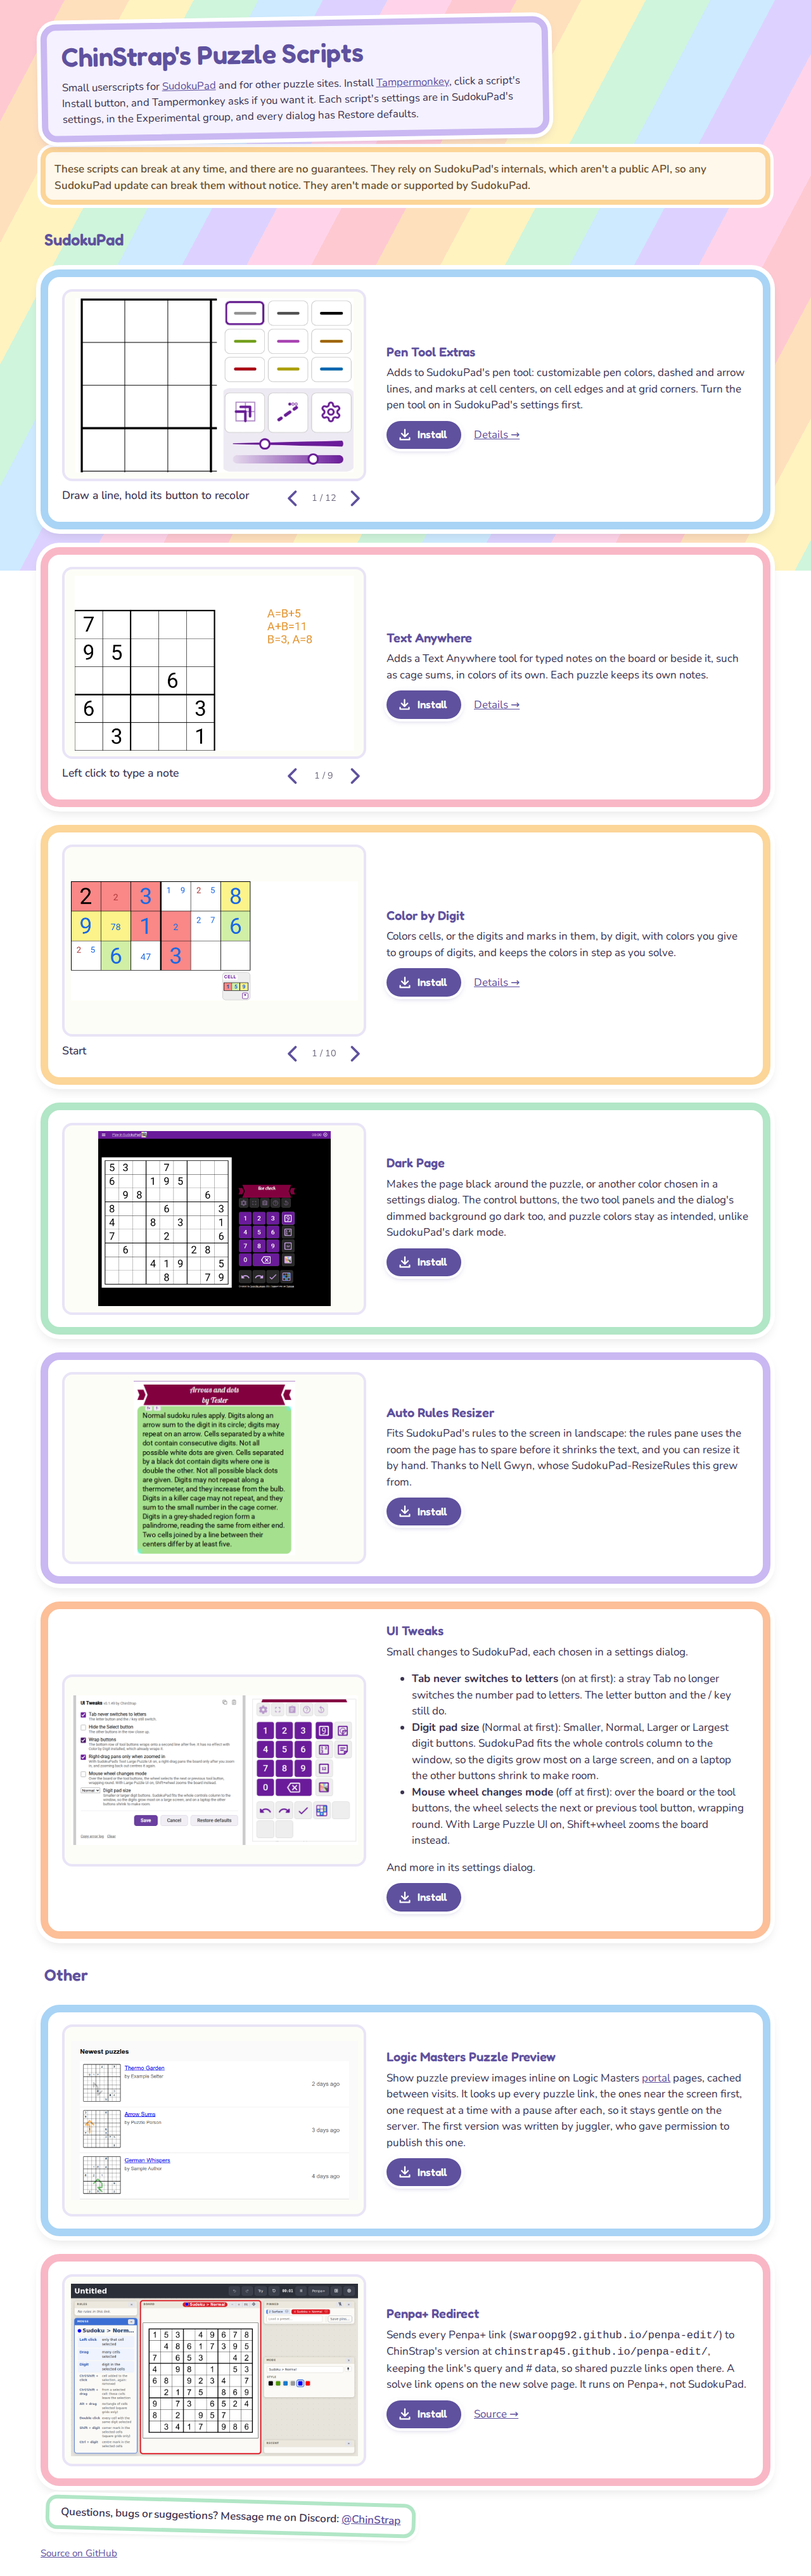
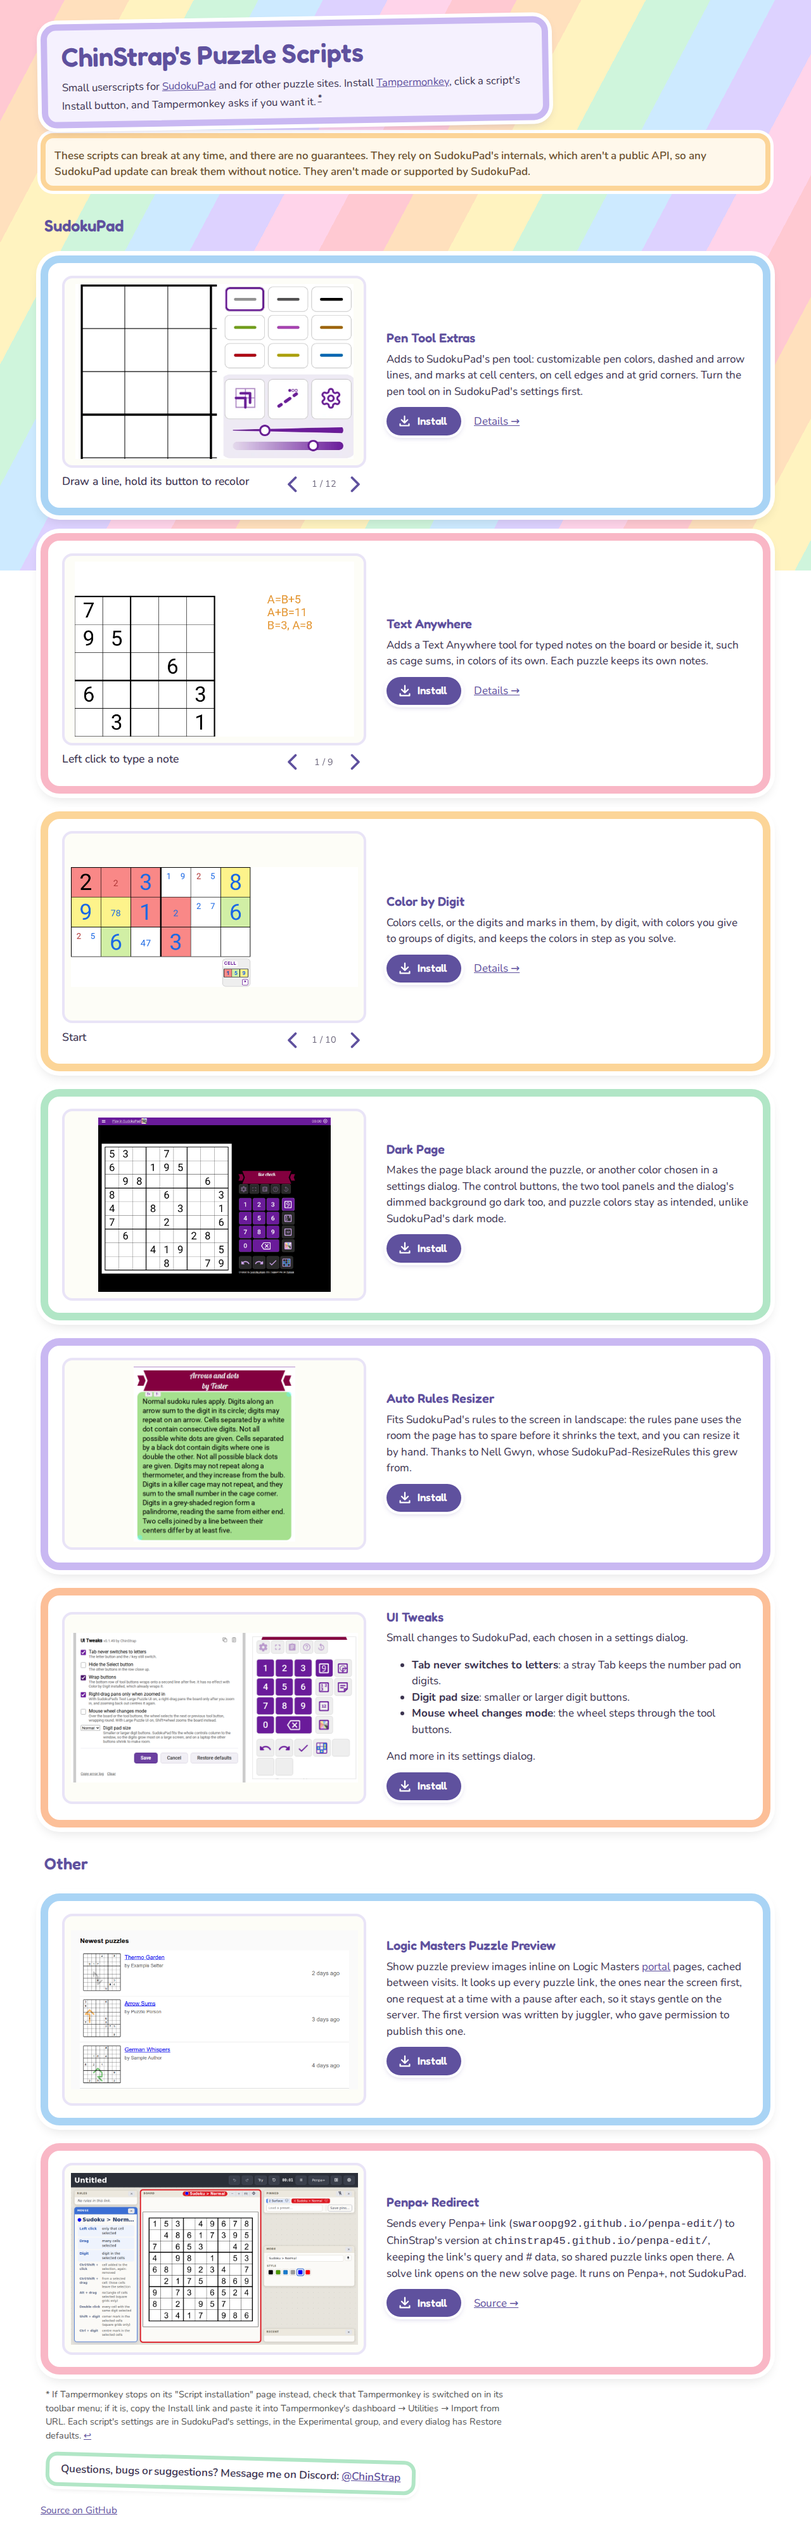
Homepage: a short title sticker, the install help in a footnote (#1206) (#1208)
* Homepage: a short title sticker, the install help in a footnote

Closes #1206

* Homepage test: no history in a comment, a message on the order check, the back link needs visible text, one back-link pattern

Closes #1206

---------

diff --git a/site/index.html b/site/index.html
@@ -24,6 +24,8 @@
   .banner { position: relative; z-index: 2; display: inline-block; max-width: 46rem; margin: .5rem 0 14px calc(var(--title-ring-width) - var(--warn-ring-width)); padding: .7rem 1.4rem .8rem; transform: rotate(-1deg); }
   .banner h1 { margin: 0 0 .25rem; }
   .banner .lede { margin: 0; font-size: 1.05rem; }
+  .footnote-ref { color: inherit; font-weight: 700; padding: 0 .15rem; }
+  .footnote { max-width: 46rem; margin: calc(var(--ring-gap) + var(--card-ring-width)) 0 0 .5rem; font-size: .9rem; color: #555; }
   .warning { position: relative; z-index: 1; margin: 0 0 calc(var(--ring-gap) + var(--warn-ring-width) + var(--card-ring-width)); padding-top: .9rem; }
   .rows { display: flex; flex-direction: column; gap: calc(var(--ring-gap) + 2 * var(--card-ring-width)); }
   .row { display: grid; grid-template-columns: 30rem 1fr; gap: 2rem; align-items: center; padding: 1.2rem 1.4rem; background: #fff; border: 12px solid var(--card); border-radius: 30px; box-shadow: var(--card-ring); }
@@ -47,7 +49,7 @@
 <body>
   <header class="banner">
     <h1>ChinStrap's Puzzle Scripts</h1>
-    <p class="lede">Small userscripts for <a href="https://sudokupad.app">SudokuPad</a> and for other puzzle sites. Install <a href="https://www.tampermonkey.net/">Tampermonkey</a>, click a script's Install button, and Tampermonkey asks if you want it. If Tampermonkey stops on its "Script installation" page instead, check that Tampermonkey is switched on in its toolbar menu; if it is, copy the Install link and paste it into Tampermonkey's dashboard → Utilities → Import from URL. Each script's settings are in SudokuPad's settings, in the Experimental group, and every dialog has Restore defaults.</p>
+    <p class="lede">Small userscripts for <a href="https://sudokupad.app">SudokuPad</a> and for other puzzle sites. Install <a href="https://www.tampermonkey.net/">Tampermonkey</a>, click a script's Install button, and Tampermonkey asks if you want it.<sup><a class="footnote-ref" id="install-note-ref" href="#install-note">*</a></sup></p>
   </header>
   <p class="warning">These scripts can break at any time, and there are no guarantees. They rely on SudokuPad's internals, which aren't a public API, so any SudokuPad update can break them without notice. They aren't made or supported by SudokuPad.</p>
   <div class="rows">
@@ -253,6 +255,7 @@
     </div>
   </section>
   </div>
+  <p class="footnote" id="install-note">* If Tampermonkey stops on its "Script installation" page instead, check that Tampermonkey is switched on in its toolbar menu; if it is, copy the Install link and paste it into Tampermonkey's dashboard → Utilities → Import from URL. Each script's settings are in SudokuPad's settings, in the Experimental group, and every dialog has Restore defaults. <a href="#install-note-ref" aria-label="Back to the intro">&#8617;</a></p>
   <p class="sticker">Questions, bugs or suggestions? Message me on Discord: <a href="https://discord.com/users/184770560356646923">@ChinStrap</a></p>
   <footer><a href="https://github.com/chinstrap45/sudokupad-scripts">Source on GitHub</a></footer>
   <script src="slides.js"></script>

diff --git a/test/site.test.js b/test/site.test.js
@@ -200,8 +200,19 @@ test(`${HOME} opens with the title sticker: the title, ChinStrap's Puzzle Script
   const m = read(HOME).match(/<body>\s*<header class="banner">\s*<h1>([^<]*)<\/h1>\s*<p class="lede">([\s\S]*?)<\/p>\s*<\/header>/)
   assert.ok(m, `site/${HOME} does not open with a <header class="banner"> holding the <h1> and then the lede`)
   assert.equal(m[1], "ChinStrap's Puzzle Scripts")
-  assert.equal(plain(m[2]), 'Small userscripts for SudokuPad and for other puzzle sites. Install Tampermonkey, click a script\'s Install button, and Tampermonkey asks if you want it. If Tampermonkey stops on its "Script installation" page instead, check that Tampermonkey is switched on in its toolbar menu; if it is, copy the Install link and paste it into Tampermonkey\'s dashboard → Utilities → Import from URL. Each script\'s settings are in SudokuPad\'s settings, in the Experimental group, and every dialog has Restore defaults.')
-  assert.match(read(HOME), /<title>ChinStrap's Puzzle Scripts<\/title>/)
+  assert.equal(plain(m[2]), 'Small userscripts for SudokuPad and for other puzzle sites. Install Tampermonkey, click a script\'s Install button, and Tampermonkey asks if you want it.*')
+  assert.match(m[2], /<a href="https:\/\/sudokupad\.app">SudokuPad<\/a>/)
+  assert.match(m[2], /<a href="https:\/\/www\.tampermonkey\.net\/">Tampermonkey<\/a>/)
+  assert.match(m[2], /<a class="footnote-ref" id="install-note-ref" href="#install-note">\*<\/a><\/sup>\s*$/)
+  // The install help is a footnote above the Discord sticker and the footer, linking back to the marker.
+  const home = read(HOME)
+  const note = home.match(/<p class="footnote" id="install-note">([\s\S]*?)<\/p>\s*<p class="sticker">/)
+  assert.ok(note, `site/${HOME} has no <p class="footnote" id="install-note"> right above the Discord sticker`)
+  assert.ok(home.indexOf('id="install-note"') < home.indexOf('<footer>'), `site/${HOME}'s footnote is below its footer`)
+  const backLink = /<a href="#install-note-ref"[^>]*>[^<]+<\/a>\s*$/
+  assert.match(note[1], backLink)
+  assert.equal(plain(note[1].replace(backLink, '')), '* If Tampermonkey stops on its "Script installation" page instead, check that Tampermonkey is switched on in its toolbar menu; if it is, copy the Install link and paste it into Tampermonkey\'s dashboard → Utilities → Import from URL. Each script\'s settings are in SudokuPad\'s settings, in the Experimental group, and every dialog has Restore defaults.')
+  assert.match(home, /<title>ChinStrap's Puzzle Scripts<\/title>/)
 })
 
 // Chris ruled dark mode out of the site (#808): it is light only, whatever the browser asks for.
